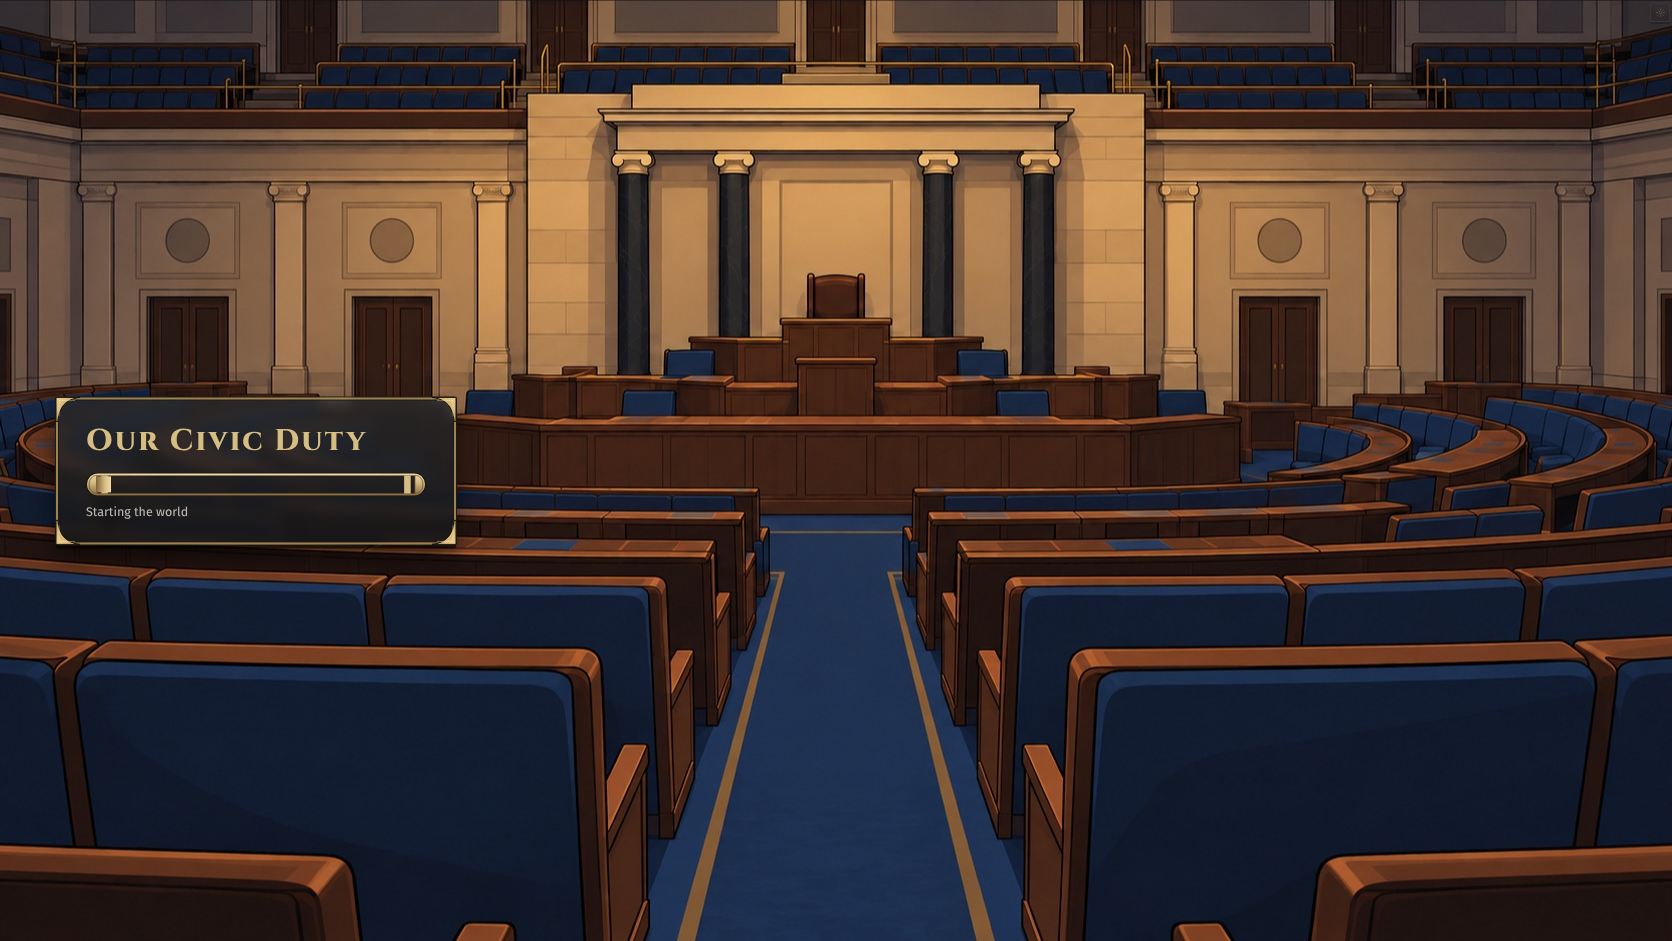
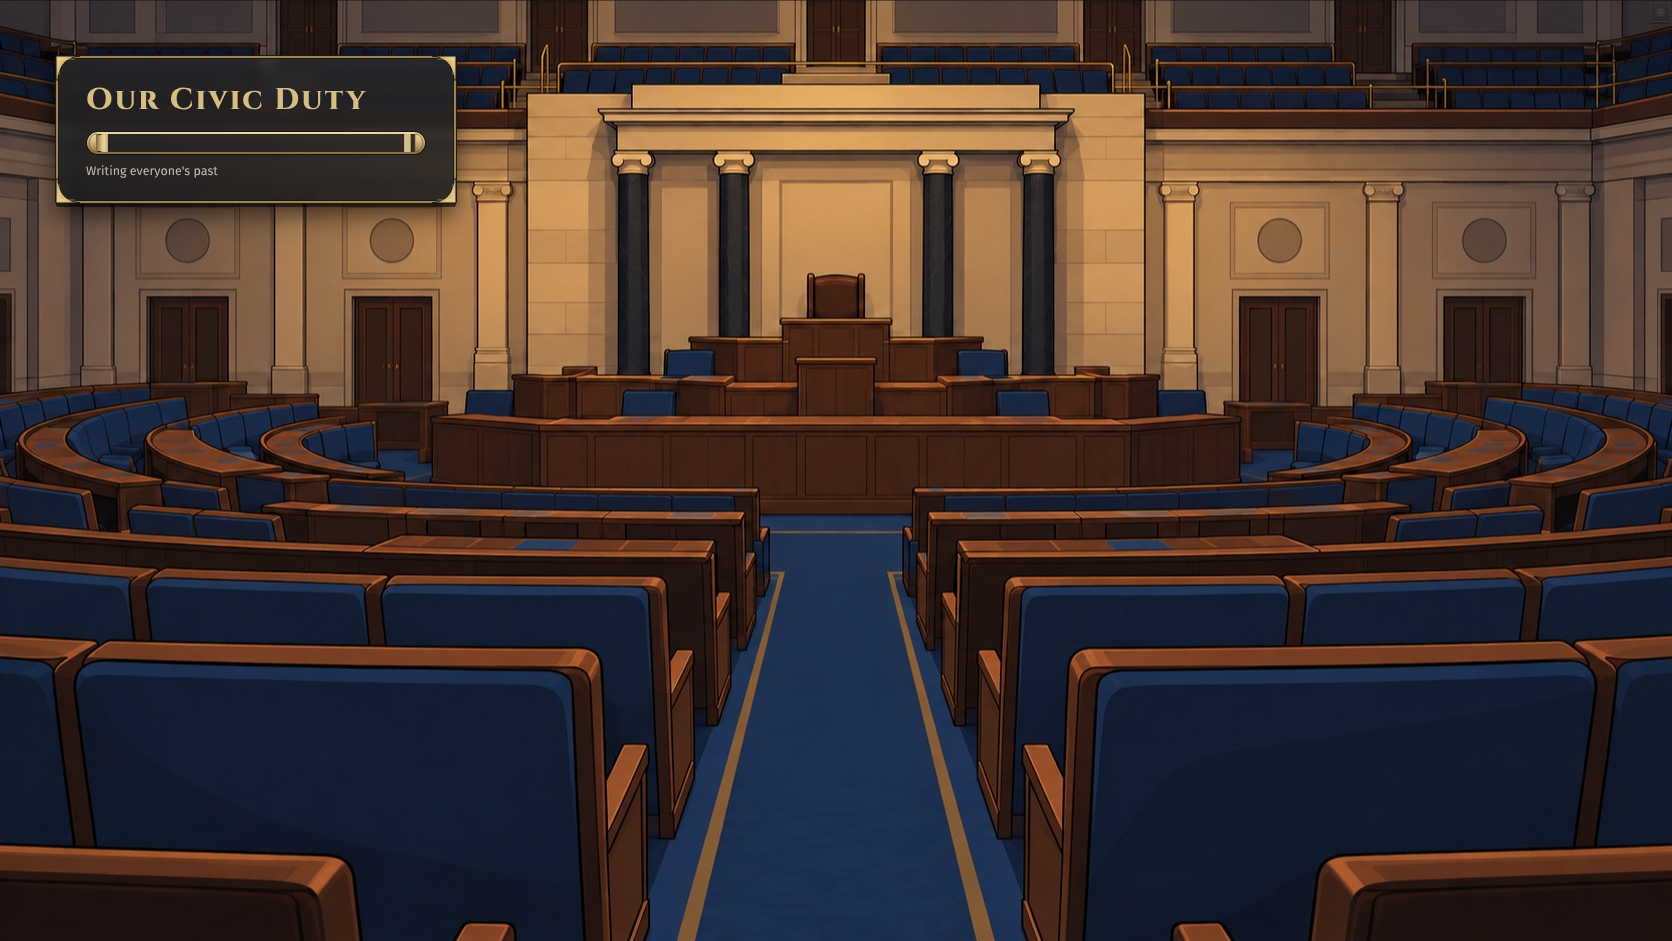
Loading card sits in the top-left corner, where the menu panel sits
Claude-Session: https://claude.ai/code/session_018wf2994rZTSyb6RouxgtPh

Changed region(s): [[0.0311, 0.4006, 0.2799, 0.5855], [0.0311, 0.0616, 0.2799, 0.2465]]

diff --git a/src/bench/play.css b/src/bench/play.css
@@ -742,6 +742,10 @@ input[type="range"]::-moz-range-thumb {
 .seed-row input {
   width: 150px;
 }
+#front.loading {
+  top: 56px;
+  transform: none;
+}
 /* The title's build version, bottom right (#4014). */
 .title-version {
   display: block;
